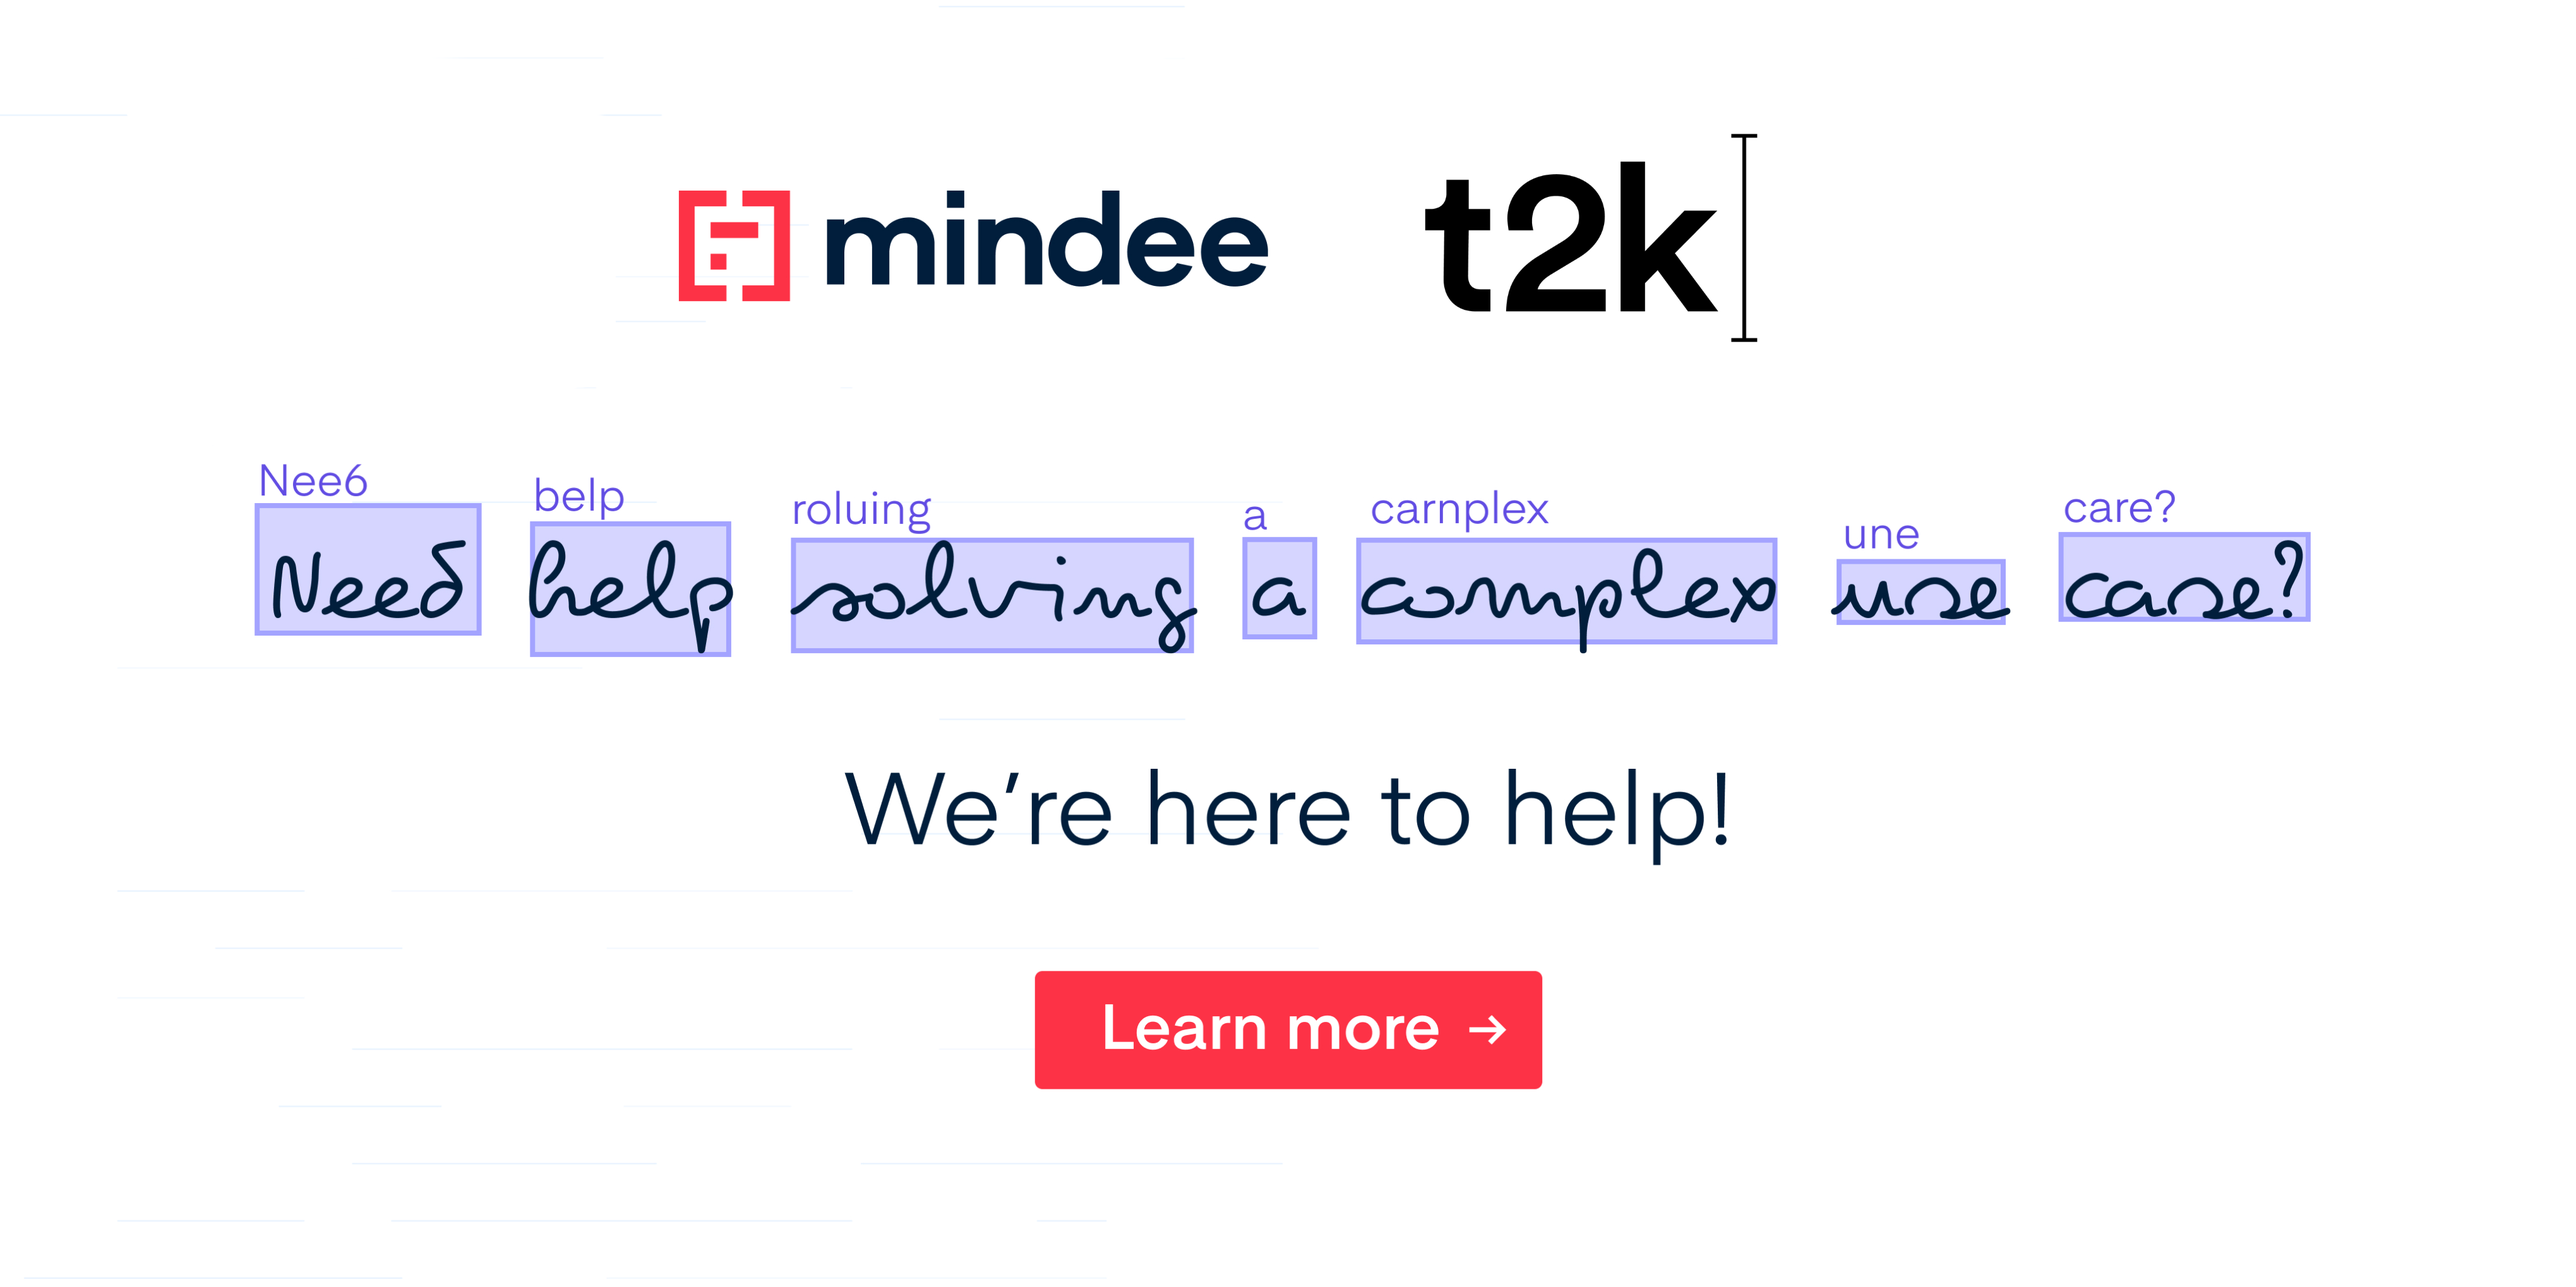
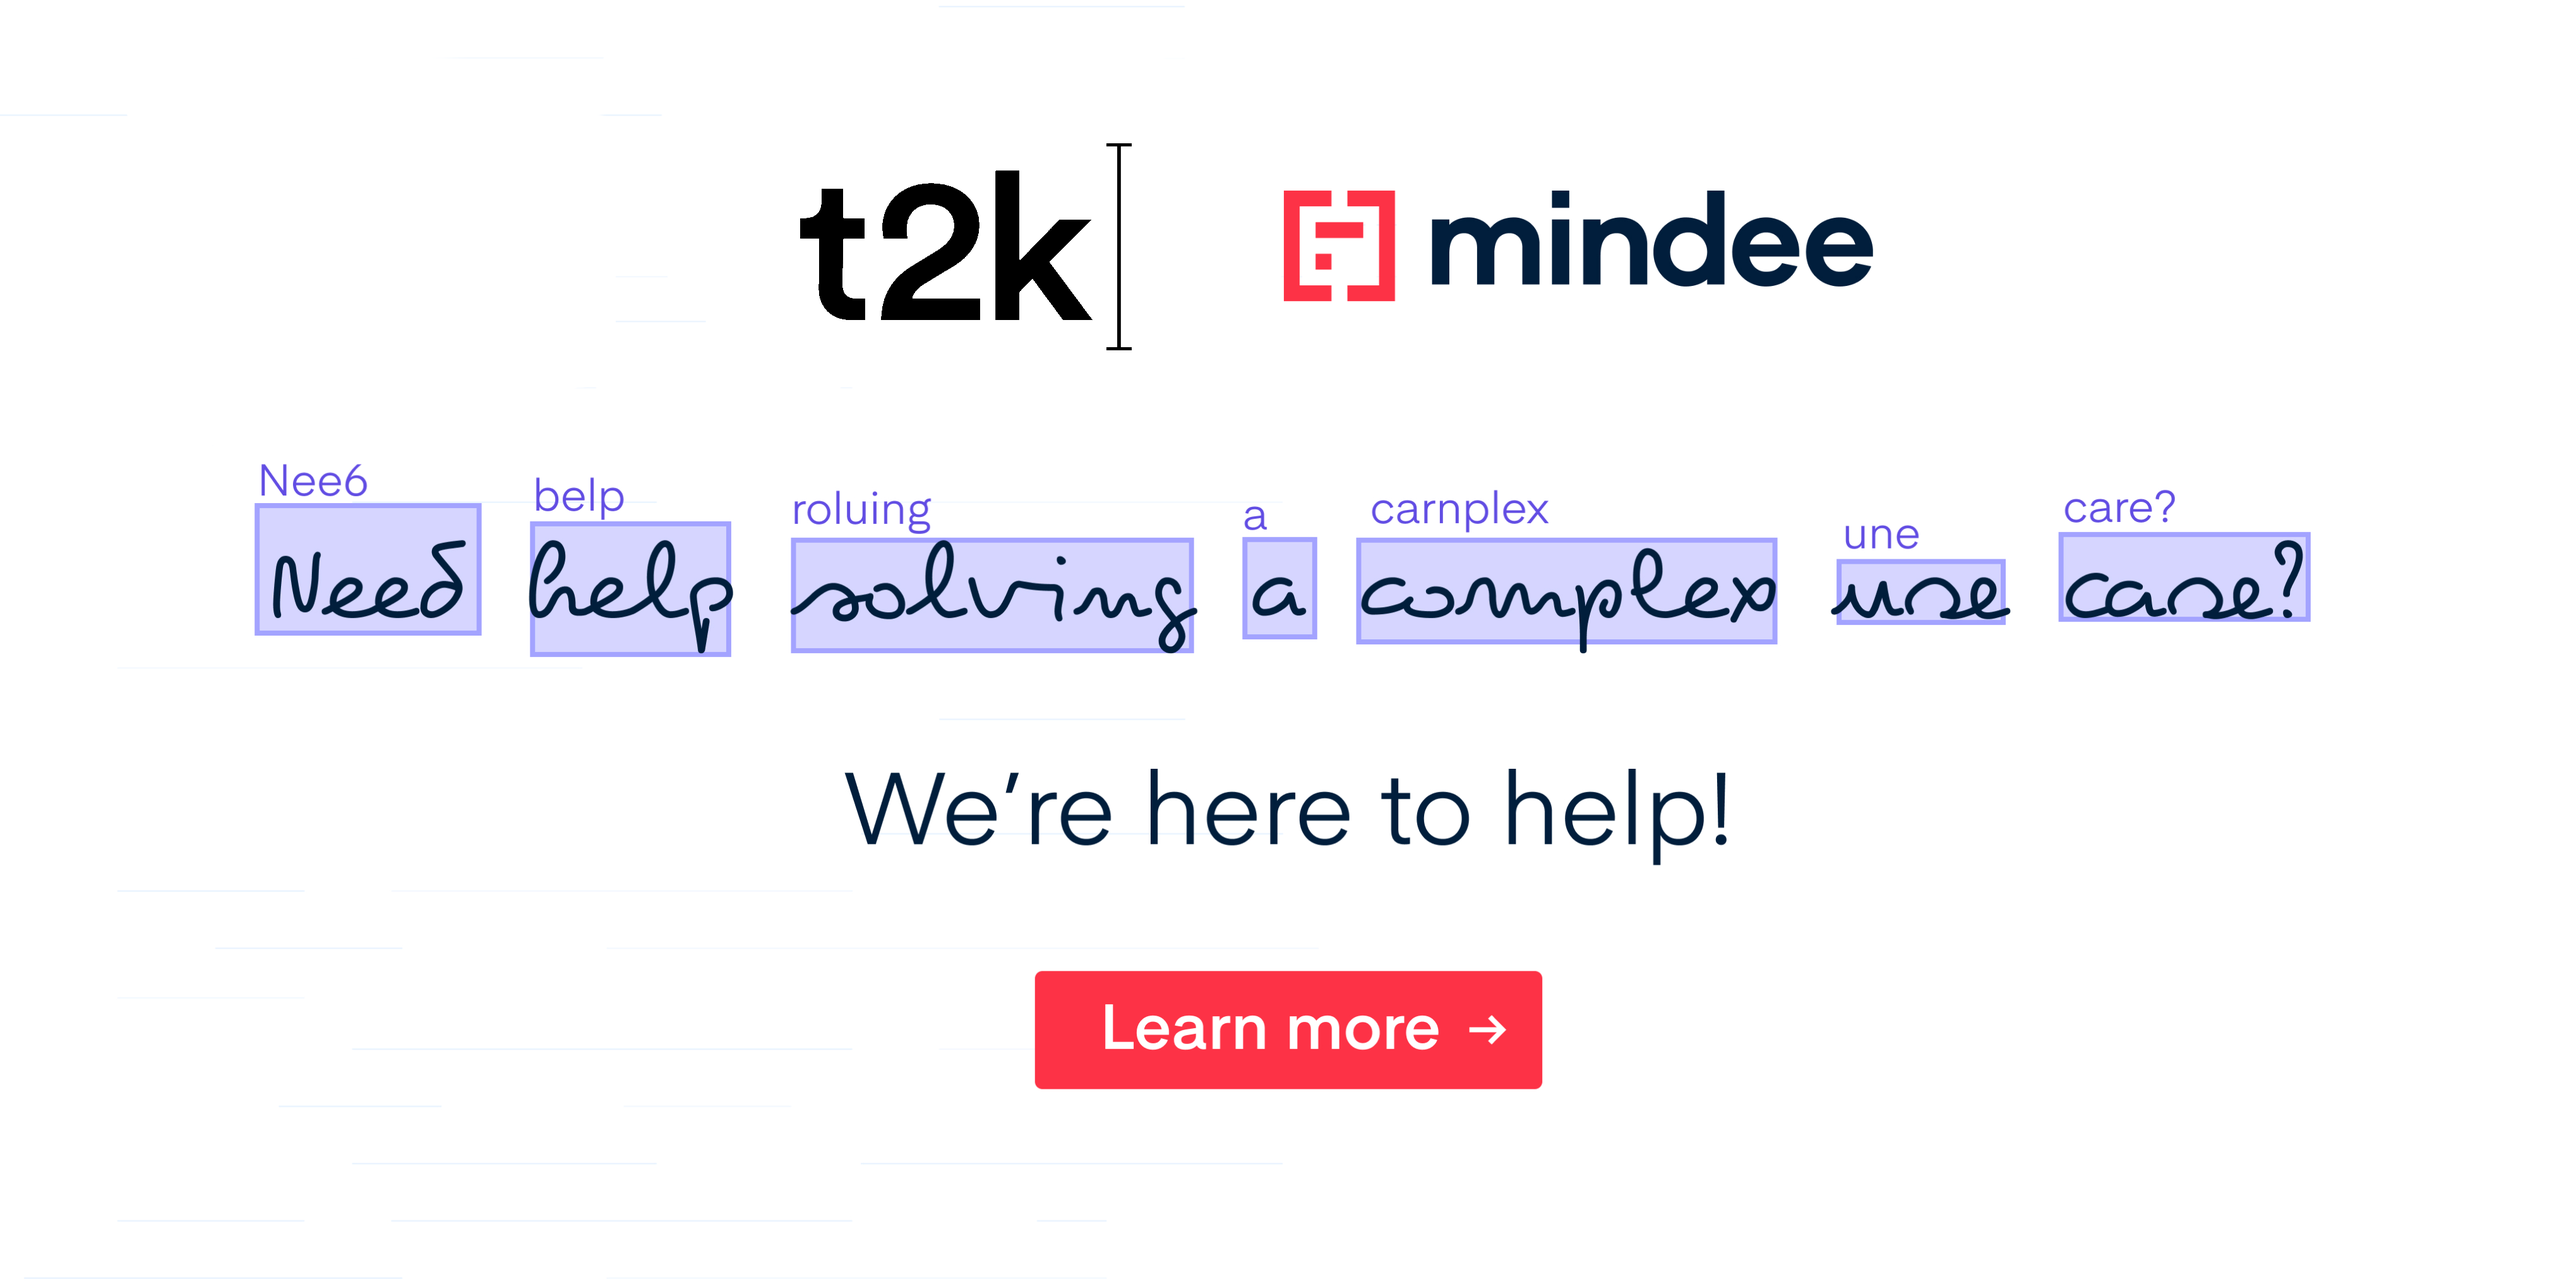
Adjust readme and need help image

Changed region(s): [[0.2491, 0.1236, 0.7472, 0.2472]]

diff --git a/README.md b/README.md
@@ -7,6 +7,12 @@
 
 **Optical Character Recognition made seamless & accessible to anyone, powered by PyTorch**
 
+## Project stewardship
+
+**docTR** was originally created by [Mindee](https://mindee.com). It is now actively developed and maintained by [t2k GmbH](https://www.text2knowledge.de/de).
+
+[![Need help solving a complex use case?](https://github.com/mindee/doctr/raw/main/docs/images/doctr-need-help.png)](https://www.text2knowledge.de/de)
+
 What you can expect from this repository:
 
 - efficient ways to parse textual information (localize and identify each word) from your documents
@@ -147,21 +153,11 @@ for class_name in predictions.keys():
 
 The KIE predictor results per page are in a dictionary format with each key representing a class name and it's value are the predictions for that class.
 
-### docTR has received support from Mindee. It is now actively being developed by [t2k GmbH](https://www.text2knowledge.de/de)
-
-[![Bad OCR test detection image asking the developer if they need help](https://github.com/mindee/doctr/raw/main/docs/images/doctr-need-help.png)](https://www.text2knowledge.de/de/portfolio/doctr-on-prem-ocr)
-
-
-This project is supported by [t2k GmbH](https://www.text2knowledge.de/de),
-<p align="center">
-  <img src="https://github.com/mindee/doctr/raw/main/docs/images/t2k_logo.png" width="40%">
-</p>
-
 ## Installation
 
 ### Prerequisites
 
-Python 3.11 (or higher) and [pip](https://pip.pypa.io/en/stable/) are required to install docTR.
+Python 3.10 (or higher) and [pip](https://pip.pypa.io/en/stable/) are required to install docTR.
 
 ### Latest release
 
@@ -268,7 +264,7 @@ docker run -it --gpus all ghcr.io/mindee/doctr:torch-py3.9.18-2024-10 bash
 The Docker images for docTR follow a specific tag nomenclature: `<deps>-py<python_version>-<doctr_version|YYYY-MM>`. Here's a breakdown of the tag structure:
 
 - `<deps>`: `torch`, `torch-viz-html-contrib`.
-- `<python_version>`: `3.10.13`, `3.11.8`, etc.
+- `<python_version>`: `3.9.18`, `3.10.13` or `3.11.8`.
 - `<doctr_version>`: a tag >= `v0.11.0`
 - `<YYYY-MM>`: e.g. `2014-10`
 
@@ -364,6 +360,22 @@ If you wish to cite this project, feel free to use this [BibTeX](http://www.bibt
     howpublished = {\url{https://github.com/mindee/doctr}}
 }
 ```
+
+## Custom Development and Support
+
+[t2k GmbH](https://www.text2knowledge.de/de) offers professional services around docTR : whether you are building a product or contributing to the open-source project.
+
+### For organizations
+
+Interested in docTR and want to develop, implement, or ship your own solution? t2k can help with:
+
+- **Custom OCR development** : individual detection, recognition, and pipeline work built on docTR
+- **Project implementation** : turning your ideas into production-ready docTR integrations
+- **Technical consulting** : architecture, deployment, and integration guidance
+- **Ongoing development** : feature extensions and implementation support tailored to your use case
+- **Workshops & advisory** : verbal consulting, hands-on sessions, and recommendations for working with docTR
+
+Contact [info@text2knowledge.de](mailto:info@text2knowledge.de) or visit our [home page](https://www.text2knowledge.de) to discuss your project.
 
 ## Contributing
 
